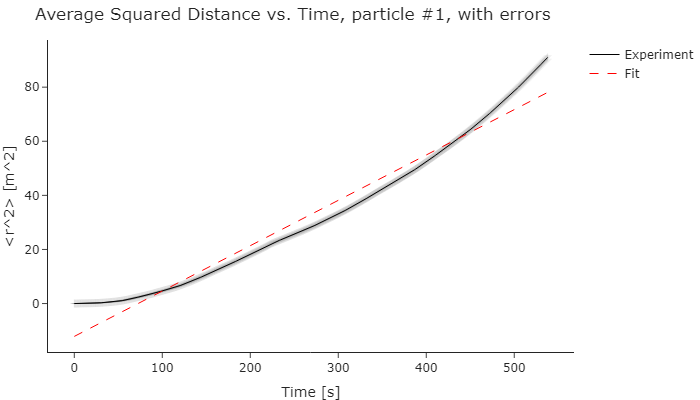
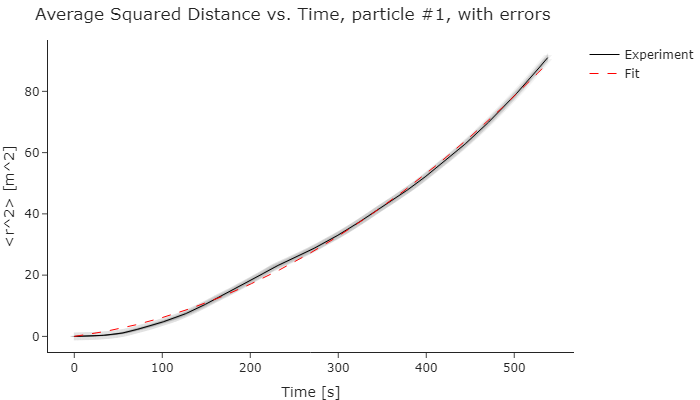
plot drifted trajectories with parabolic fit

diff --git a/utils.py b/utils.py
@@ -9,6 +9,7 @@ import matplotlib.pyplot as plt
 import pandas as pd
 import numpy as np
 import os
+from brownian_motion import calc_average_r_squared
 
 pio.templates["custom"] = go.layout.Template(layout=go.Layout(margin=dict(l=20, r=20, t=40, b=0)))
 pio.templates.default = "simple_white+custom"
@@ -19,9 +20,9 @@ def read_data(csv_path):
     pixel_meter_ratio = 1. / 22.86
     x, y = (data['x'].to_numpy()) * pixel_meter_ratio, (data['y'].to_numpy()) * pixel_meter_ratio
     x_error, y_error = data['x error'].to_numpy(), data['y error'].to_numpy()
-    b_path = np.concatenate([x.reshape((x.shape[0], 1)), y.reshape((y.shape[0], 1))], axis=1)
-    column_errors = np.concatenate([x_error.reshape((x.shape[0], 1)), y_error.reshape((y.shape[0], 1))], axis=1)
-    return b_path, column_errors
+    # b_path = np.concatenate([x.reshape((x.shape[0], 1)), y.reshape((y.shape[0], 1))], axis=1)
+    # column_errors = np.concatenate([x_error.reshape((x.shape[0], 1)), y_error.reshape((y.shape[0], 1))], axis=1)
+    return x, y, x_error, y_error
 
 
 def plot(x, y, x_label, y_label, graph_title):
@@ -50,7 +51,7 @@ def plot_motion(path):
     plt.show()
 
 
-def plot_with_fit(x, y, y_fit, x_label, y_label, graph_title):
+def plot_with_fit(x, y, y_fit, fit_params, x_label, y_label, graph_title):
     fig = go.Figure(
         [go.Scatter(x=x, y=y,
                     name="Experiment", showlegend=True,
@@ -67,9 +68,10 @@ def plot_with_fit(x, y, y_fit, x_label, y_label, graph_title):
     if not os.path.exists("graphs"):
         os.mkdir("graphs")
     fig.write_image("graphs/{}.png".format(graph_title))
+    print(graph_title, "fit parameters: ", fit_params)
 
 
-def plot_with_fit_and_errors(x, x_error, y, y_error, y_fit, x_label, y_label, graph_title):
+def plot_with_fit_and_errors(x, x_error, y, y_error, y_fit, fit_params, x_label, y_label, graph_title):
     fig = go.Figure(
         [go.Scatter(x=x, y=y,
                     error_x=dict(type='data', array=x_error, thickness=0.06, visible=True),
@@ -109,28 +111,18 @@ def create_brownian_motion(T, dt, mu_x, mu_y, sigma, dims=2):
     return drifted_path
 
 
-def plot_average_r_squared_vs_time(brownian_path):
-    t = np.linspace(0, brownian_path.shape[0], num=brownian_path.shape[0])
-    plot(t, calc_average_r_squared(brownian_path), "time", "<r^2>", "<r^2> vs. time")
-
-
 def plot_curve_with_fit_and_errors(test, x, error_x, y, error_y, num):
     params, y_fit = curve_fit(test, x, y)
-    plot_with_fit_and_errors(x, error_x, y, error_y, y_fit, "Time [s]", "<r^2> [m^2]",
+    plot_with_fit_and_errors(x, error_x, y, error_y, y_fit, params, "Time [s]", "<r^2> [m^2]",
                              "Average Squared Distance vs. Time, particle #{}, with errors".format(num))
 
 
 def plot_curve_with_fit(test, x, y, num):
     params, y_fit = curve_fit(test, x, y)
-    plot_with_fit(x, y, y_fit, "Time [s]", "<r^2> [m^2]", "Average Squared Distance vs. Time, particle #{}".format(num))
+    plot_with_fit(x, y, y_fit, params, "Time [s]", "<r^2> [m^2]",
+                  "Average Squared Distance vs. Time, particle #{}".format(num))
 
 
-def normalize_values(brownian_path):
+def normalize_values(vec):
     # normalizes the x and y values to start with zero
-    brownian_path[:, 0] = brownian_path[:, 0] - brownian_path[0, 0]
-    brownian_path[:, 1] = brownian_path[:, 1] - brownian_path[0, 1]
-    return brownian_path
-
-
-def calc_r_squared_error(x, y, x_error, y_error):
-    return np.sqrt(np.square(2 * x * x_error) + np.square(2 * y * y_error))
+    return vec - vec[0]

diff --git a/brownian_motion.py b/brownian_motion.py
@@ -17,43 +17,51 @@ def drop_drift(x, y, time):
     return x, y
 
 
-def calc_average_r_squared(r_squared):
+def calc_average_r_squared(x, y):
+    r_squared = np.square(x) + np.square(y)
     averaged = np.cumsum(r_squared) / np.arange(1, len(r_squared) + 1)
     return averaged
+
+
+def calc_r_squared_error(x, y, x_error, y_error):
+    return np.sqrt(np.square(2 * x * x_error) + np.square(2 * y * y_error))
 
 
 def analyze_week1():
     # for each particle:
     # read its data, normalize it against drift, plot its r^2 vs time, fit and discover D, plot D vs R of particle
-    particles = [1, 2, 3, 4, 5]
-    for particle in particles:
-        excel_path = r'C:\Users\ORENGER\Desktop\uni\physics-data-analyzer\experiment_data\particle{}.xlsx'.format(
+    goodies = [5]
+    baddies = [1, 2, 3, 4]
+    for particle in range(1, 6):
+        excel_path = r'C:\Users\user\Desktop\lab\physics-data-analyzer\experiment_data\particle{}.xlsx'.format(
             particle)
 
         # read and normalize data
-        trajectory, errors = utils.read_data(excel_path)
-        trajectory = utils.normalize_values(trajectory)
+        x, y, x_error, y_error = utils.read_data(excel_path)
+        x, y = utils.normalize_values(x), utils.normalize_values(y)
 
         # plot trajectory of the particle
-        utils.plot(trajectory[:, 0], trajectory[:, 1], "x", "y",
-                   "2D trajectory of the particle #{}".format(particle))
-        time = np.linspace(0, trajectory.shape[0], num=trajectory.shape[0])
+        utils.plot(x, y, "x", "y", "2D trajectory of the particle #{}".format(particle))
+        time = np.linspace(0, x.shape[0], num=x.shape[0])
 
         # numerically check for drift in both axes, than normalize values
-        trajectory[:, 0], trajectory[:, 1] = drop_drift(trajectory[:, 0], trajectory[:, 1], time)
+        # trajectory[:, 0], trajectory[:, 1] = drop_drift(trajectory[:, 0], trajectory[:, 1], time)
 
         # plot trajectory of the particle without drift (simulated)
-        utils.plot(trajectory[:, 0], trajectory[:, 1], "x", "y",
-                   "2D trajectory of the particle #{}, without drift".format(particle))
+        # utils.plot(trajectory[:, 0], trajectory[:, 1], "x", "y",
+        #            "2D trajectory of the particle #{}, without drift".format(particle))
 
-        # calculate r^2, plot against time
-        r_2 = np.square(trajectory[:, 0]) + np.square(trajectory[:, 1])
-        average_r_2 = calc_average_r_squared(r_2)
+        # plot r^2 vs time, with linear/parabolic fit, depending on drift
+        if particle in goodies:
+            equation = equations.linear_no_intercept
+        else:
+            equation = equations.parabolic_no_intercept
+
+        average_r_2 = calc_average_r_squared(x, y)
+        error_r = calc_r_squared_error(x, y, x_error, y_error)
+        utils.plot_curve_with_fit(equation, time, average_r_2, particle)
         error_t = np.zeros(shape=average_r_2.shape)
-        error_x, error_y = errors[:, 0], errors[:, 1]
-        error_r = utils.calc_r_squared_error(trajectory[:, 0], trajectory[:, 1], error_x, error_y)
-        utils.plot_curve_with_fit(equations.linear, time, average_r_2, particle)
-        utils.plot_curve_with_fit_and_errors(equations.linear, time, error_t, average_r_2, error_r, particle)
+        utils.plot_curve_with_fit_and_errors(equation, time, error_t, average_r_2, error_r, particle)
 
 
 if __name__ == '__main__':

diff --git a/equations.py b/equations.py
@@ -3,8 +3,16 @@ Holds equations used for fitting
 """
 
 
+def linear_no_intercept(t, a):
+    return a * t
+
+
 def linear(t, a, b):
-    return b + a * t
+    return a * t + b
+
+
+def parabolic_no_intercept(t, a, b):
+    return a * (t ** 2) + b * t
 
 
 equations = {"linear": linear}
